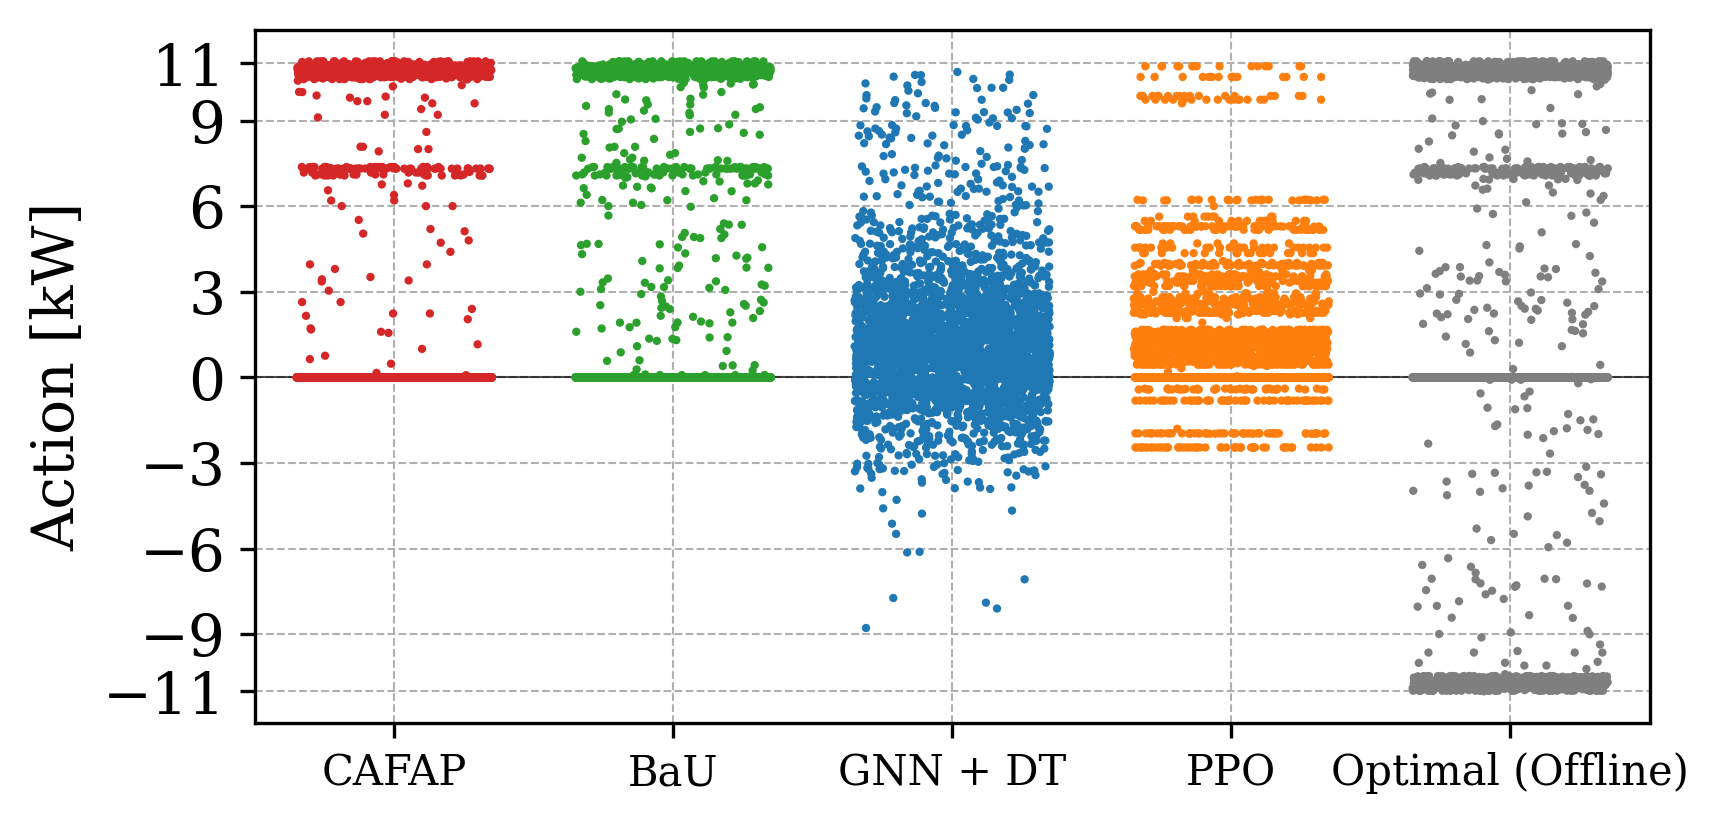
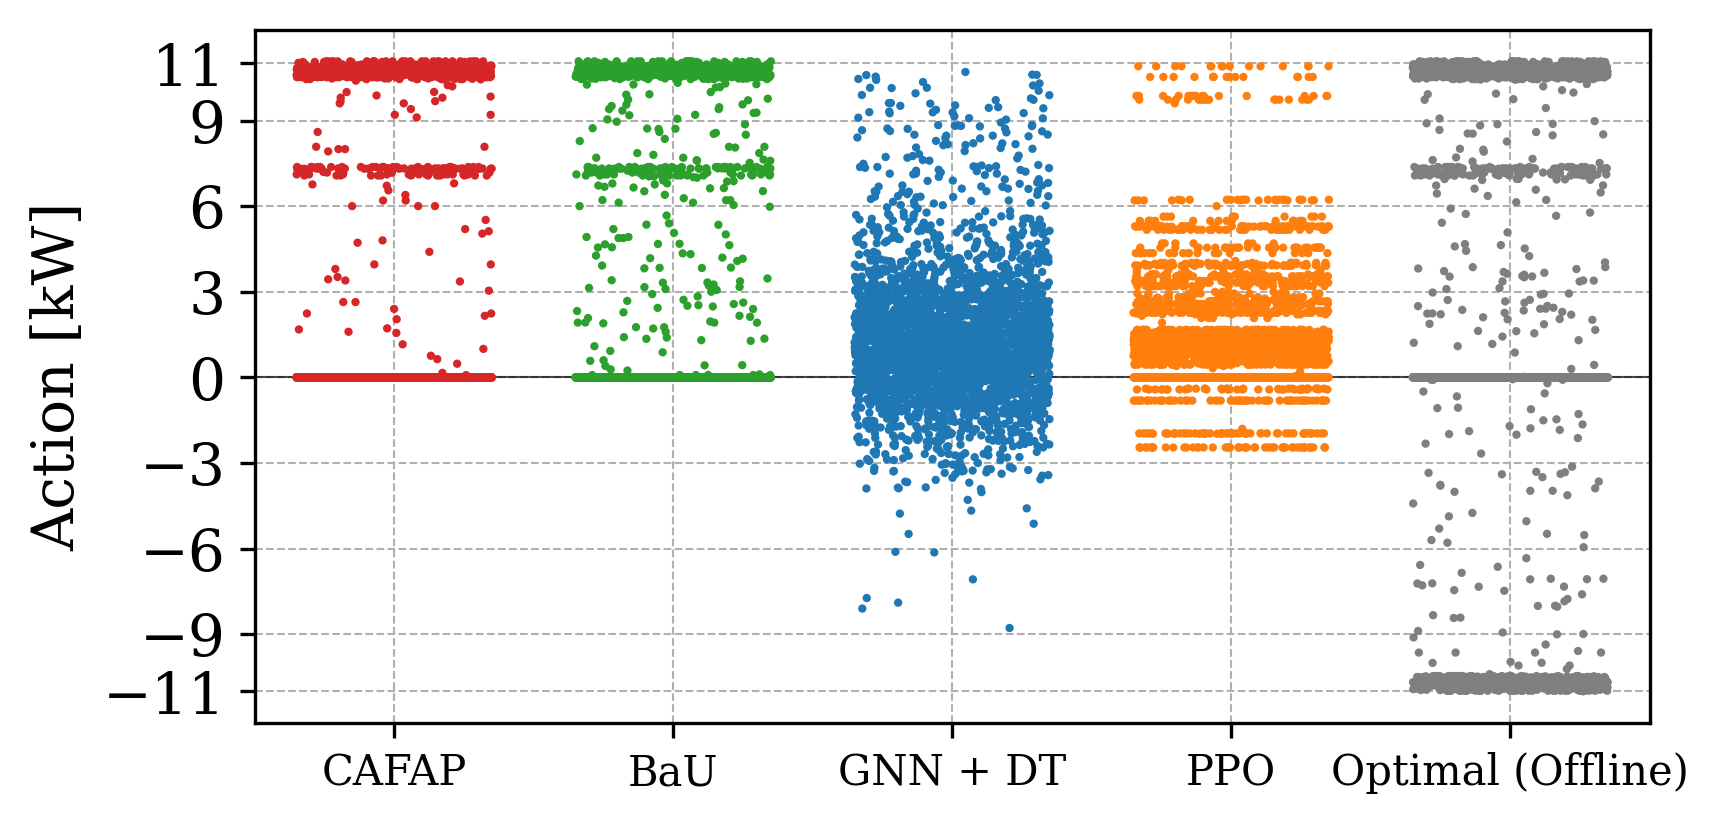
Update evaluator.py and plot_charging_analysis.py for improved seed handling and plot adjustments

diff --git a/plot_charging_analysis.py b/plot_charging_analysis.py
@@ -181,10 +181,12 @@ def plot_actual_power_vs_setpoint(results_path,
         replay = pickle.load(f)
 
     plt.close('all')
-    plt.figure(figsize=(12, 6))
+    plt.figure(figsize=(6, 4))
     plt.rc('font', family='serif')
 
     for index, key in enumerate(replay.keys()):
+        if index == 0:
+            continue
         env = replay[key]
         print(f'env: {env}, type: {str(type(env))}')
         if str(type(env)) == "<class 'gymnasium.wrappers.common.OrderEnforcing'>":
@@ -197,12 +199,13 @@ def plot_actual_power_vs_setpoint(results_path,
                                    datetime.timedelta(
                                        minutes=env.timescale),
                                    freq=f'{env.timescale}min')
+        
         date_range_print = pd.date_range(start=env.sim_starting_date,
                                          end=env.sim_date,
-                                         periods=7)
+                                         periods=5)
 
         # plot the actual power vs the setpoint power for each algorithm in subplots
-        plt.subplot(2, 3, index+1)
+        plt.subplot(2, 2, index)
         plt.grid(True, which='major', axis='both')
 
         actual_power = env.current_power_usage
@@ -210,33 +213,54 @@ def plot_actual_power_vs_setpoint(results_path,
 
         plt.step(date_range, actual_power.T, alpha=0.9, color='#00429d')
         plt.step(date_range, setpoints.T, alpha=1, color='#93003a')
+        
+        # fill between the actual power and 0
+        plt.fill_between(date_range, actual_power.T, 0, step='post', alpha=0.3, color='#00429d')        
+        
 
         plt.axhline(0, color='black', lw=2)
-        plt.title(f'{algorithm_names[index]}', fontsize=14)
+        plt.title(f'{algorithm_names[index]}', fontsize=13)
 
         plt.yticks(fontsize=14)
 
-        # if index == len(replay) - 1:
-        plt.xticks(ticks=date_range_print,
-                   labels=[
-                       f'{d.hour:2d}:{d.minute:02d}' for d in date_range_print],
-                   rotation=45,
-                   fontsize=14)
-        # plt.xlabel('Time', fontsize=28)
-        # else:
-        #     plt.xticks(ticks=date_range_print,
-        #                labels=[' ' for d in date_range_print])
+        if index == 3 or index == 4:
+            plt.xticks(ticks=date_range_print,
+                    labels=[
+                        f'{d.hour:2d}:{d.minute:02d}' for d in date_range_print],
+                    # rotation=45,
+                    fontsize=10)        
+        else:
+            plt.xticks(ticks=date_range_print,
+                       labels=[' ' for d in date_range_print])
 
-        # if index == len(replay) // 2:
-        plt.ylabel('Power (kW)', fontsize=14)
+        
+        if index == 1:
+            plt.yticks(np.arange(0, 125, 20), 
+                       fontsize=12)
+        elif index == 2:
+            plt.yticks(np.arange(0, 125, 20),
+                          labels=' '*7,
+                          fontsize=12)
+        elif index == 3:
+            plt.yticks(np.arange(-40, 125, 20), 
+                       fontsize=12)
+        else:
+            plt.yticks(np.arange(-40, 125, 20),
+                          labels=' '*9,
+                          fontsize=12)
+        
+        if index == 1 or index == 3:
+            plt.ylabel('Power [kW]', fontsize=11)
+        else:
+            plt.ylabel('', fontsize=12)
 
         plt.xlim([env.sim_starting_date, env.sim_date])
-        plt.ylim([0, 90])
+        # plt.ylim([0, 120])
 
     # Put the legend under the plot in a separate axis
-    plt.legend(['Actual Power', 'Power Setpoint'], loc='upper center',
-               bbox_to_anchor=(1.7, 0.7),
-               fancybox=True, shadow=True, ncol=1, fontsize=14)
+    plt.legend(['Aggregated Power', 'Dynamic Power Limit'], loc='upper center',
+               bbox_to_anchor=(-0.15,-0.2),
+               fancybox=True, shadow=True, ncol=2, fontsize=12)
 
     plt.subplots_adjust(
         left=0.055,    # Space from the left of the figure
@@ -259,7 +283,7 @@ def plot_actual_power_vs_setpoint(results_path,
                 bbox_inches='tight',
                 )
 
-    # plt.show()
+    plt.show()
 
 
 def plot_comparable_EV_SoC_single(results_path,
@@ -292,7 +316,7 @@ def plot_comparable_EV_SoC_single(results_path,
              linestyle='--', linewidth=0.5)
 
     # plot a horizontal line at 0.8
-    plt.axhline(y=0.8,
+    plt.axhline(y=80,
                 color=sns.color_palette()[4],
                 linestyle='--',
                 alpha=0.5,
@@ -355,6 +379,7 @@ def plot_comparable_EV_SoC_single(results_path,
                     # fill y with 0 before and after to match the length of df
                     y = np.concatenate(
                         [np.zeros(t_arr), y, np.zeros(len(df) - t_dep)])
+                    y = y * 100
 
                     markevery = 5
                     if i == 0:
@@ -381,13 +406,13 @@ def plot_comparable_EV_SoC_single(results_path,
 
             # plt.title(f'Charging Station {cs.id + 1}', fontsize=24)
 
-            plt.ylabel('SoC [-]', fontsize=14)
-            plt.yticks(np.arange(0, 1.1, 0.2),
+            plt.ylabel('SoC [%]', fontsize=14)
+            plt.yticks(np.arange(0, 110, 20),
                        fontsize=14)
 
             # plt.xlabel('Time', fontsize=14)
 
-            plt.ylim([0.1, 1.02])
+            plt.ylim([20, 102])
             # plt.xlim([env.sim_starting_date, env.sim_date])
             # plt.xticks(ticks=date_range_print,
             #            labels=[f'{d.hour:2d}:{d.minute:02d}' for d in date_range_print],
@@ -396,7 +421,7 @@ def plot_comparable_EV_SoC_single(results_path,
 
             starting_date = env.sim_starting_date + \
                 datetime.timedelta(hours=10)
-            ending_date = env.sim_starting_date + datetime.timedelta(hours=45)
+            ending_date = env.sim_starting_date + datetime.timedelta(hours=40)
 
             plt.xlim([starting_date, ending_date])
             date_range_print = pd.date_range(start=starting_date,
@@ -462,6 +487,10 @@ def plot_total_power_V2G(results_path, save_path=None, algorithm_names=None):
 
     for index, key in enumerate(replay.keys()):
         env = replay[key]
+        print(f'env: {env}, type: {str(type(env))}')
+        if str(type(env)) == "<class 'gymnasium.wrappers.common.OrderEnforcing'>":
+            print('Order enforcing')
+            env = unwrap_env(env) 
 
         date_range = pd.date_range(start=env.sim_starting_date,
                                    end=env.sim_starting_date +
@@ -857,32 +886,34 @@ def plot_comparable_CS_Power_scatterplot(results_path, save_path=None, algorithm
 if __name__ == '__main__':
 
     # results_path = './results/eval_50cs_1tr_PST_V2G_ProfixMax_50_PES_5_algos_100_exp_2025_02_02_868691/'
-    results_path = './results/eval_50cs_1tr_PST_V2G_ProfixMax_50_PES_5_algos_1_exp_2025_02_03_727655/'
+    # results_path = './results/eval_50cs_1tr_PST_V2G_ProfixMax_50_PES_5_algos_1_exp_2025_02_03_727655/'
+    results_path = './results/eval_50cs_1tr_PST_V2G_ProfixMax_50_PES_5_algos_1_exp_2025_02_04_757687/'
     save_path = './results_analysis/figs/'
 
-    algorithm_names = ['CAFAP','BaU','GNN + DT','PPO', 'Optimal (Offline)']
+    algorithm_names = ['CAFAP','BaU','PPO','GNN + DT', 'Optimal (Offline)']
+    # algorithm_names = ['CAFAP','BaU','GNN + DT','PPO', 'Optimal (Offline)']
     marker_list = ['o', 's', 'D', '^', 'v']
     color_list = ['b', 'g', 'r', 'c', 'm']
 
     plt.rcParams['font.family'] = 'serif'
 
-    plot_comparable_EV_SoC_single(results_path=results_path + 'plot_results_dict.pkl',
-                                  save_path=save_path,
-                                  algorithm_names=algorithm_names,
-                                  color_list=color_list,
-                                  marker_list=marker_list
-                                  )
+    # plot_comparable_EV_SoC_single(results_path=results_path + 'plot_results_dict.pkl',
+    #                               save_path=save_path,
+    #                               algorithm_names=algorithm_names,
+    #                               color_list=color_list,
+    #                               marker_list=marker_list
+    #                               )
     # plot_comparable_CS_Power(
     #     results_path=results_path + 'plot_results_dict.pkl',
     #     save_path=save_path,
     #     algorithm_names=algorithm_names
     # )
 
-    plot_comparable_CS_Power_scatterplot(
-        results_path=results_path + 'plot_results_dict.pkl',
-        save_path=save_path,
-        algorithm_names=algorithm_names
-    )
+    # plot_comparable_CS_Power_scatterplot(
+    #     results_path=results_path + 'plot_results_dict.pkl',
+    #     save_path=save_path,
+    #     algorithm_names=algorithm_names
+    # )
 
     # exit()
     # plot_comparable_EV_SoC(results_path=results_path + 'plot_results_dict.pkl',

diff --git a/evaluator.py b/evaluator.py
@@ -47,7 +47,7 @@ import warnings
 warnings.filterwarnings("ignore", category=UserWarning)
 
 # set seeds
-seed = 9 #6
+seed = 10 #6
 np.random.seed(seed)
 torch.manual_seed(seed)
 random.seed(seed)
@@ -107,9 +107,8 @@ def evaluator():
         #################################################################
         
         ################## Best models PES_50 ##################################
-        'gnn_act_emb_run_10_K=5_dataset=mixed_50_optimal_random_92276_366128',
         'ppo_run_1_95066',
-
+        'gnn_act_emb_run_10_K=5_dataset=mixed_50_optimal_random_92276_366128',
         #################################################################
         # ChargeAsLateAsPossible,
         # RoundRobin_GF_off_allowed,
